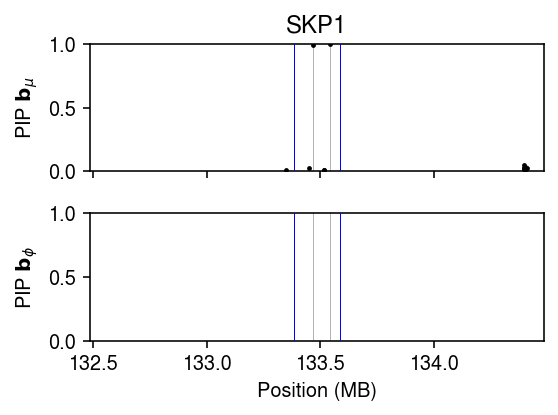
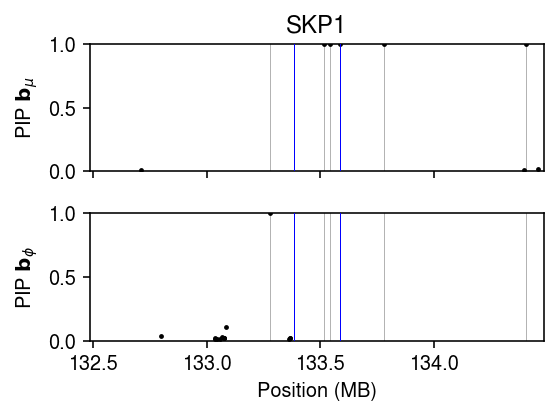
Try running SGD longer

diff --git a/docs/scqtl.html b/docs/scqtl.html
@@ -1,7 +1,7 @@
 <!DOCTYPE html>
 <html lang="en">
 <head>
-<!-- 2020-05-08 Fri 16:47 -->
+<!-- 2020-05-09 Sat 16:49 -->
 <meta charset="utf-8">
 <meta name="viewport" content="width=device-width, initial-scale=1">
 <title>Single cell QTL mapping via sparse multiple regression</title>
@@ -368,7 +368,8 @@ sparsity-inducing prior
 
 <p>
 The prior is non-conjugate to the likelihood, so we perform variational
-inference (Blei et al. 2017), optimizing a stochastic objective
+inference (<a href="https://dx.doi.org/10.1080/01621459.2017.1285773">Blei et
+al. 2017</a>), optimizing a stochastic objective
 (<a href="https://arxiv.org/abs/1312.6114">Kingma and Welling 2014</a>,
 <a href="https://arxiv.org/abs/1401.4082">Rezende et al. 2014</a>,
 <a href="http://proceedings.mlr.press/v32/titsias14.html">Titsias and
@@ -385,14 +386,21 @@ et al. 2015</a>) to speed up convergence
 <div id="outline-container-org0620222" class="outline-2">
 <h2 id="setup"><a id="org0620222"></a>Setup</h2>
 <div class="outline-text-2" id="text-setup">
+<pre class="example">
+Submitted batch job 1009091
+
+</pre>
+
 <div class="org-src-container">
 <pre class="src src-ipython" id="orgbeb6183"><span class="org-keyword">import</span> anndata
 <span class="org-keyword">import</span> gzip
+<span class="org-keyword">import</span> os
 <span class="org-keyword">import</span> numpy <span class="org-keyword">as</span> np
 <span class="org-keyword">import</span> pandas <span class="org-keyword">as</span> pd
 <span class="org-keyword">import</span> rpy2.robjects.pandas2ri
 <span class="org-keyword">import</span> rpy2.robjects.packages
 <span class="org-keyword">import</span> tabix
+<span class="org-keyword">import</span> time
 <span class="org-keyword">import</span> torch
 <span class="org-keyword">import</span> torch.utils.data <span class="org-keyword">as</span> td
 <span class="org-keyword">import</span> txpred
@@ -410,7 +418,8 @@ rpy2.robjects.pandas2ri.activate()
 </div>
 
 <div class="org-src-container">
-<pre class="src src-ipython"><span class="org-keyword">import</span> matplotlib.pyplot <span class="org-keyword">as</span> plt
+<pre class="src src-ipython"><span class="org-keyword">import</span> colorcet
+<span class="org-keyword">import</span> matplotlib.pyplot <span class="org-keyword">as</span> plt
 <span class="org-variable-name">plt.rcParams</span>[<span class="org-string">'figure.facecolor'</span>] = <span class="org-string">'w'</span>
 <span class="org-variable-name">plt.rcParams</span>[<span class="org-string">'font.family'</span>] = <span class="org-string">'Nimbus Sans'</span>
 </pre>
@@ -585,15 +594,17 @@ Fit the sparse regression model.
 </p>
 
 <div class="org-src-container">
-<pre class="src src-ipython">torch.manual_seed(1)
+<pre class="src src-ipython">torch.manual_seed(2)
+<span class="org-comment-delimiter"># </span><span class="org-comment">TODO: This doesn't get faster on the GPU. Utilization problem?</span>
+<span class="org-variable-name">device</span> = <span class="org-string">'cpu:0'</span>
 <span class="org-variable-name">data</span> = td.DataLoader(
   td.TensorDataset(
-    torch.tensor(L.values, dtype=torch.<span class="org-builtin">float</span>),
-    torch.tensor(y[:,y.var[<span class="org-string">'name'</span>] == <span class="org-string">'SKP1'</span>].X.A, dtype=torch.<span class="org-builtin">float</span>),
-    torch.tensor(y.obs[<span class="org-string">'mol_hs'</span>].values, dtype=torch.<span class="org-builtin">float</span>)),
-  batch_size=128, shuffle=<span class="org-constant">True</span>)
+    torch.tensor(L.values, dtype=torch.<span class="org-builtin">float</span>, device=device),
+    torch.tensor(y[:,y.var[<span class="org-string">'name'</span>] == <span class="org-string">'SKP1'</span>].X.A, dtype=torch.<span class="org-builtin">float</span>, device=device),
+    torch.tensor(y.obs[<span class="org-string">'mol_hs'</span>].values, dtype=torch.<span class="org-builtin">float</span>, device=device)),
+  batch_size=256, shuffle=<span class="org-constant">True</span>)
 <span class="org-variable-name">fit</span> = (txpred.models.susie.PoisGamRegression(m=L.shape[1], p=x.shape[0])
-       .fit(torch.tensor(x.values.T, dtype=torch.<span class="org-builtin">float</span>), data, n_epochs=80, trace=<span class="org-constant">False</span>))
+       .fit(torch.tensor(x.values.T, dtype=torch.<span class="org-builtin">float</span>, device=device), data, n_epochs=480, trace=<span class="org-constant">True</span>))
 </pre>
 </div>
 
@@ -629,6 +640,32 @@ fig.tight_layout()
 
 <div class="figure">
 <p><img src="figure/scqtl.org/pois-gam-skp1.png" alt="pois-gam-skp1.png">
+</p>
+</div>
+
+<p>
+Look at the Pearson correlation between the SNPs with \(\mathrm{PIP}_{\mu}
+   \triangleq p(b_{\mu j} \neq 0 \mid \cdot) > 0.5\) and those with
+\(\mathrm{PIP}_{\phi} > 0.5\).
+</p>
+
+<div class="org-src-container">
+<pre class="src src-ipython">plt.clf()
+plt.gcf().set_size_inches(3, 3)
+<span class="org-variable-name">r</span> = np.corrcoef(x[torch.sigmoid(fit.inv_disp_prior.logits.detach()).numpy().ravel() &gt; 0.5],
+            x[torch.sigmoid(fit.mean_prior.logits.detach()).numpy().ravel() &gt; 0.5])
+plt.imshow(r, cmap=colorcet.cm[<span class="org-string">'coolwarm'</span>], vmin=-1, vmax=1)
+<span class="org-variable-name">cb</span> = plt.colorbar(shrink=0.5)
+cb.set_label(<span class="org-string">'Pearson $r$'</span>)
+plt.xlabel(<span class="org-string">'SNP'</span>)
+plt.ylabel(<span class="org-string">'SNP'</span>)
+plt.tight_layout()
+</pre>
+</div>
+
+
+<div class="figure">
+<p><img src="figure/scqtl.org/pois-gam-skp1-ld.png" alt="pois-gam-skp1-ld.png">
 </p>
 </div>
 
@@ -697,17 +734,17 @@ dispersion effect has PIP &gt; 0.5.
   <span class="org-variable-name">mean_df</span> = (pd.concat(mean_effects)
              .reset_index(level=[0, 1, 2])
              .rename({f<span class="org-string">'level_{i}'</span>: k <span class="org-keyword">for</span> i, k <span class="org-keyword">in</span> <span class="org-builtin">enumerate</span>([<span class="org-string">'gene'</span>, <span class="org-string">'name'</span>, <span class="org-string">'chr'</span>, <span class="org-string">'pos'</span>])}, axis=1))
-  mean_df.to_csv(<span class="org-string">'/scratch/midway2/aksarkar/singlecell/ipsc-mean-effects.txt.gz'</span>, sep=<span class="org-string">'\t'</span>)
+  mean_df.to_csv(<span class="org-string">'/scratch/midway2/aksarkar/singlecell/test/ipsc-mean-effects.txt.gz'</span>, sep=<span class="org-string">'\t'</span>)
 <span class="org-keyword">if</span> inv_disp_effects:
   <span class="org-variable-name">inv_disp_df</span> = (pd.concat(inv_disp_effects)
                  .reset_index(level=[0, 1, 2])
                  .rename({f<span class="org-string">'level_{i}'</span>: k <span class="org-keyword">for</span> i, k <span class="org-keyword">in</span> <span class="org-builtin">enumerate</span>([<span class="org-string">'gene'</span>, <span class="org-string">'name'</span>, <span class="org-string">'chr'</span>, <span class="org-string">'pos'</span>])}, axis=1))
-  inv_disp_df.to_csv(<span class="org-string">'/scratch/midway2/aksarkar/singlecell/ipsc-inv-disp-effects.txt.gz'</span>, sep=<span class="org-string">'\t'</span>)
+  inv_disp_df.to_csv(<span class="org-string">'/scratch/midway2/aksarkar/singlecell/test/ipsc-inv-disp-effects.txt.gz'</span>, sep=<span class="org-string">'\t'</span>)
 </pre>
 </div>
 
 <div class="org-src-container">
-<pre class="src src-sh">sbatch --partition=mstephens --mem=4G --time=6:00:00
+<pre class="src src-sh">sbatch --partition=mstephens --mem=4G
 <span class="org-comment-delimiter">#</span><span class="org-comment">!/bin/bash</span>
 <span class="org-builtin">source</span> activate singlecell
 python /project2/mstephens/aksarkar/projects/singlecell-ideas/code/scqtl.py
@@ -715,7 +752,7 @@ python /project2/mstephens/aksarkar/projects/singlecell-ideas/code/scqtl.py
 </div>
 
 <pre class="example">
-Submitted batch job 1048952
+Submitted batch job 1080540
 
 </pre>
 </div>
@@ -724,7 +761,7 @@ Submitted batch job 1048952
 </div>
 <div id="postamble" class="status">
 <p class="author">Author: Abhishek Sarkar</p>
-<p class="date">Created: 2020-05-08 Fri 16:47</p>
+<p class="date">Created: 2020-05-09 Sat 16:49</p>
 <p class="validation"><a href="http://validator.w3.org/check?uri=referer">Validate</a></p>
 </div>
 </body>
